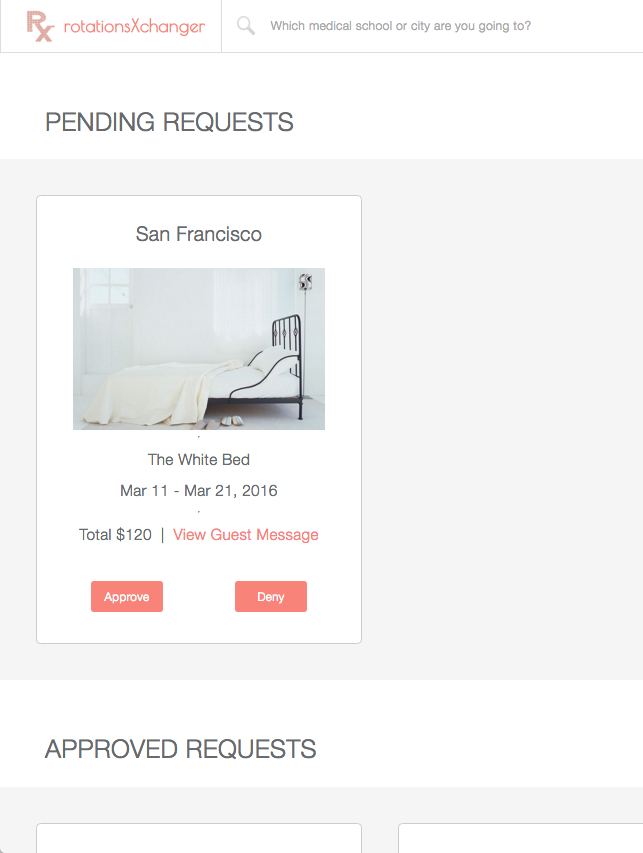
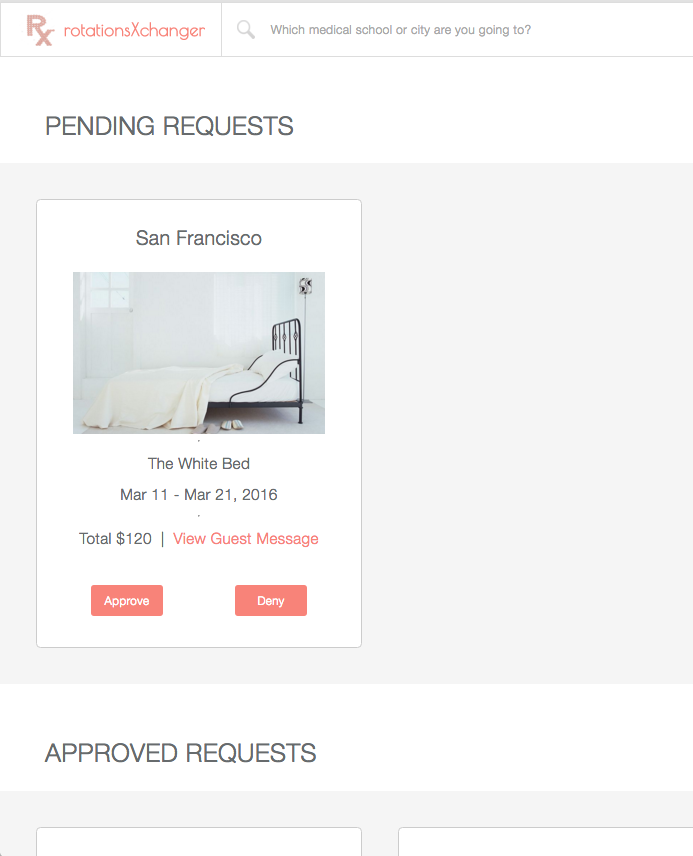
readme screenshots side by side

diff --git a/README.md b/README.md
@@ -40,9 +40,9 @@ All forms are custom designed to ensure intuitive use when adding, editing and d
 
 #####Requests easily approved or denied with instant status and page updates
 
-<section style="display:flex;justify-content:space-around">
-    <img width="200" src="./screenshots/pending_request.png">
-    <img width="400" src="./screenshots/approved_request.png"/>
+<section>
+    <img width="320" padding-right="20" src="./screenshots/pending_request.png">
+    <img width="490" src="./screenshots/approved_request.png"/>
 </section>
 
 #####Trips organized by status
